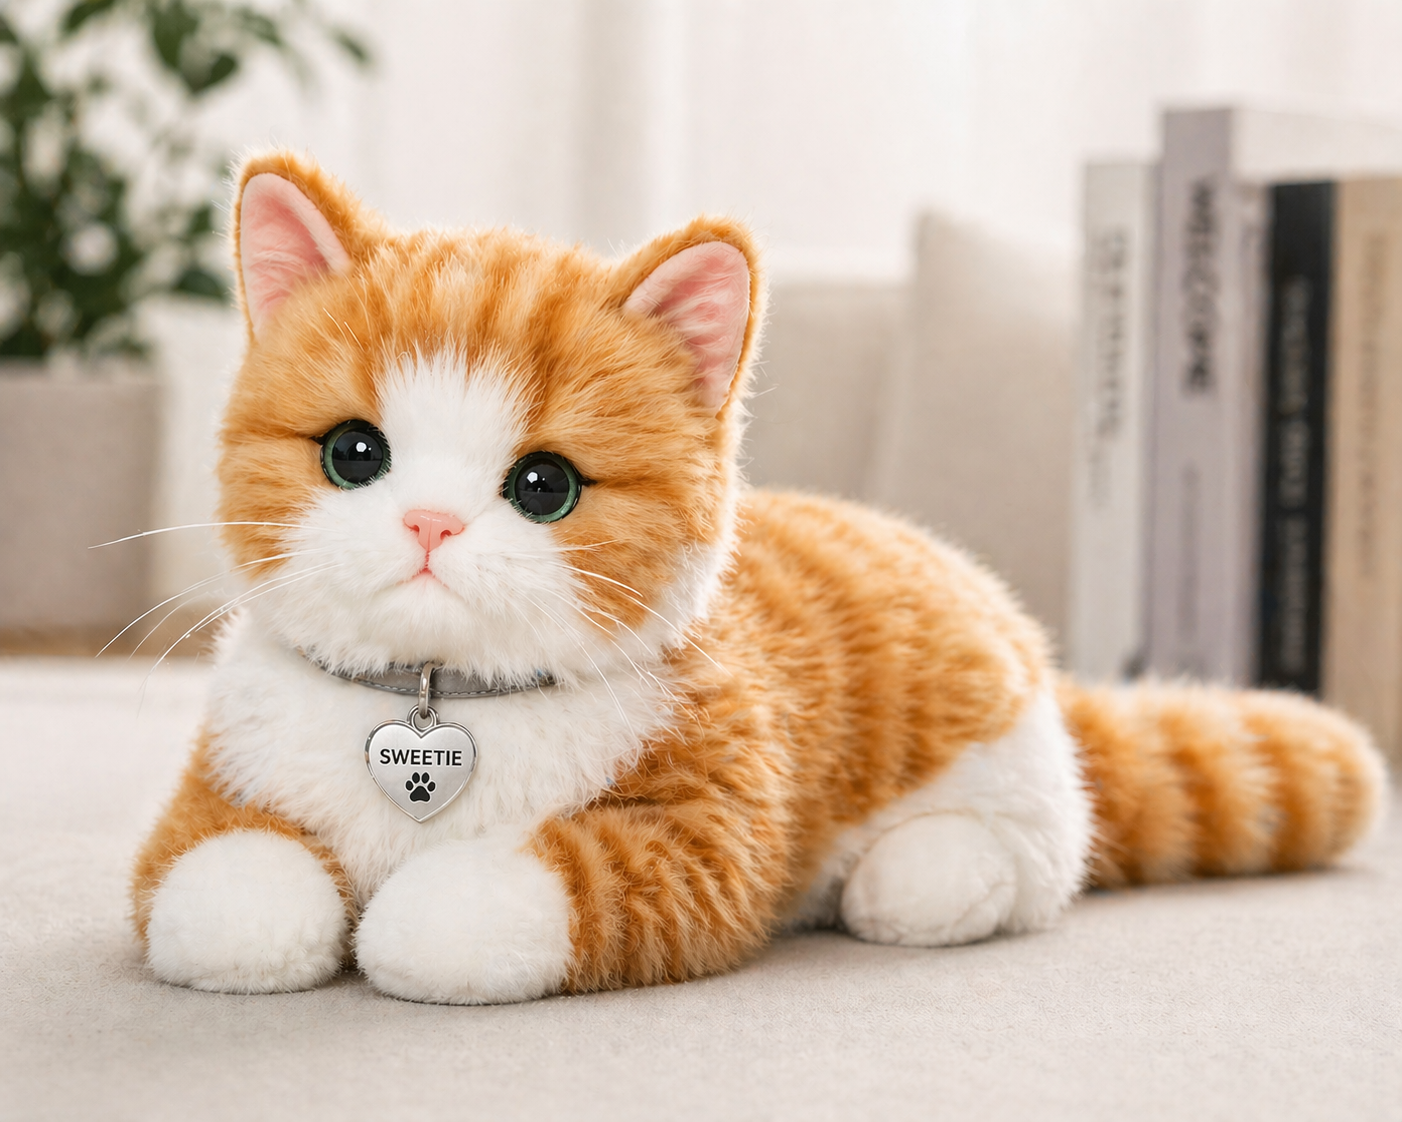
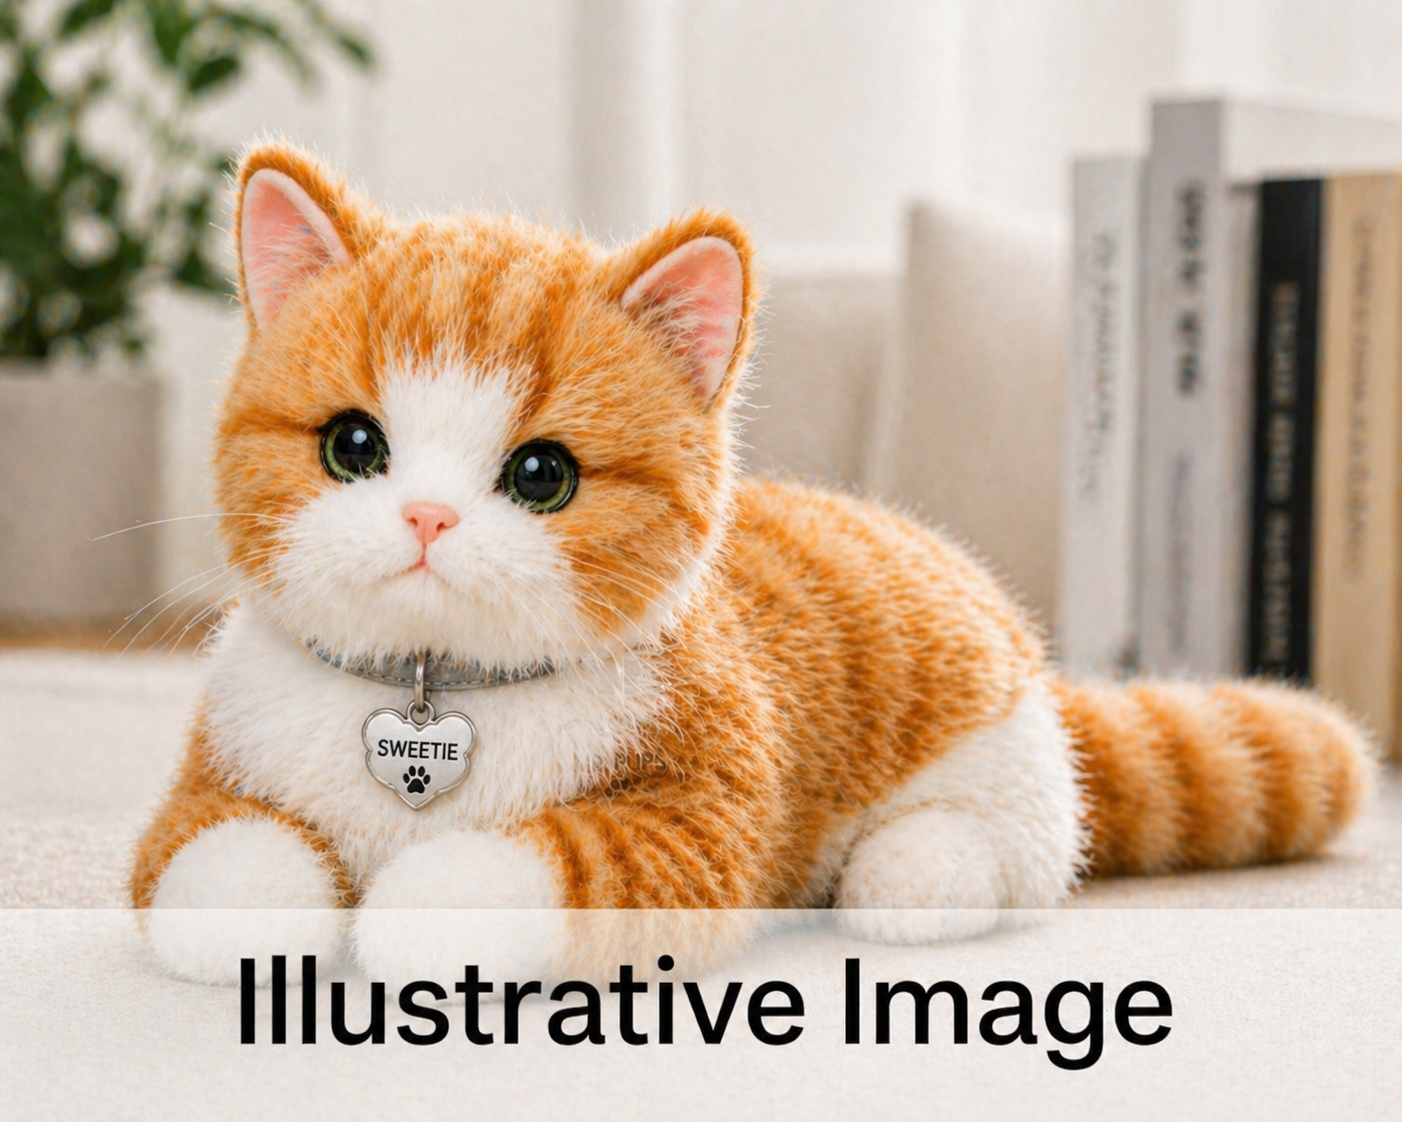
Warm golden redesign, product images, layout cleanup

diff --git a/components/site-data.ts b/components/site-data.ts
@@ -2,7 +2,7 @@
 // Run `npm run generate:products` to regenerate.
 // Source: Documentation/Product Matrix.xlsx + Documentation/product-details.json
 //
-// Generated: 2026-04-28T20:06:24.095Z
+// Generated: 2026-04-30T21:39:12.642Z
 
 export type ProductFlags = {
   gifts: boolean;
@@ -47,7 +47,8 @@ export const products: Product[] = [
       "Auto-recharge dock"
     ],
     "highlight": "Smartest family robot",
-    "productUrl": "",
+    "productUrl": "EBO Air 2 Plus FamilyBot – Live Video & App Control",
+    "imageUrl": "/images/products/interactive_pet_toys.png",
     "flags": {
       "gifts": true,
       "premium": true,
@@ -74,61 +75,7 @@ export const products: Product[] = [
       "USB-C rechargeable"
     ],
     "highlight": "Best rechargeable option",
-    "productUrl": "",
-    "flags": {
-      "gifts": true,
-      "premium": false,
-      "camera": false,
-      "internetAccess": false,
-      "affiliateAgreement": false
-    }
-  },
-  {
-    "slug": "companion-pet-pup",
-    "name": "Companion Pet Pup",
-    "manufacturer": "Joy for All",
-    "type": "Interactive",
-    "bestFor": [
-      "Seniors",
-      "Children"
-    ],
-    "blurb": "A lifelike animatronic puppy with soft fur, BarkBack technology, and a soothing heartbeat. Designed with feedback from caregivers to bring comfort to older adults.",
-    "price": "$179.99",
-    "rating": 4.5,
-    "features": [
-      "BarkBack voice response",
-      "Heartbeat sensation",
-      "Soft hypoallergenic fur"
-    ],
-    "highlight": "Award-winning senior companion",
-    "productUrl": "",
-    "flags": {
-      "gifts": true,
-      "premium": false,
-      "camera": false,
-      "internetAccess": false,
-      "affiliateAgreement": false
-    }
-  },
-  {
-    "slug": "companion-pet-cat",
-    "name": "Companion Pet Cat",
-    "manufacturer": "Joy for All",
-    "type": "Interactive",
-    "bestFor": [
-      "Seniors",
-      "Children"
-    ],
-    "blurb": "An animatronic cat that purrs, meows, and rolls over for tummy scratches. Studies show it reduces feelings of loneliness and dementia-related agitation.",
-    "price": "$159.99",
-    "rating": 4.5,
-    "features": [
-      "VibraPurr technology",
-      "Motion sensors",
-      "Multiple colors"
-    ],
-    "highlight": "Best for dementia comfort",
-    "productUrl": "",
+    "productUrl": "Not Currently Available in the US",
     "flags": {
       "gifts": true,
       "premium": false,
@@ -155,7 +102,8 @@ export const products: Product[] = [
       "Handcrafted fur"
     ],
     "highlight": "Most lifelike under $150",
-    "productUrl": "",
+    "productUrl": "https://chongker.com/products/matecat-pro-hyper-realistic-bionic-cat",
+    "imageUrl": "/images/products/Sweetie-Cat.png",
     "flags": {
       "gifts": true,
       "premium": false,